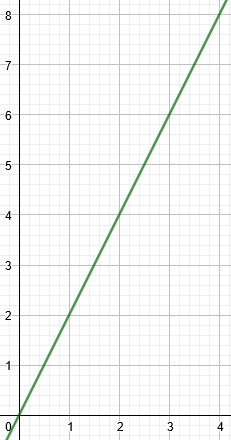
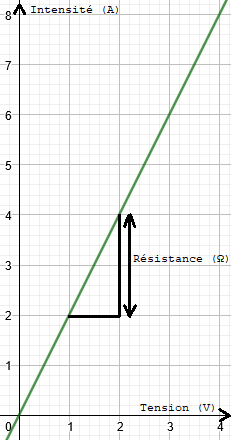
Modifiction de l'image : CourbeCaracteristique pour l'article Composant_Resistance

diff --git a/content/post/Composants/Composants_Résistance.md b/content/post/Composants/Composants_Résistance.md
@@ -68,7 +68,7 @@ Nous avions déjà introduit cette loi dans l'article précédent (cf. "[Les loi
 
 [![Courbe caractéristique d'une résistance](/res/images/Composant_Resistance/CourbeCaracteristique.png#center "Courbe caractéristique d'une résistance")](/res/images/Composant_Resistance/CourbeCaracteristique.png)
 
-Dans cette exemple, nous avons une résistance de 2 Ohms, la tension en abscisse et l'intensité en ordonnée. Nous voyons donc que pour chaque volt que l'on monte, l'intensité monte de 2 ampères. Le coefficient directeur est bien 2, soit la valeur de notre résistance.
+Dans cet exemple, nous avons une résistance de 2 Ohms, la tension en abscisse et l'intensité en ordonnée. Nous voyons donc que pour chaque volt que l'on monte, l'intensité monte de 2 ampères. Le coefficient directeur est bien 2, soit la valeur de notre résistance.
 
 On en déduit donc la formule générale de la loi d'Ohm :
 
